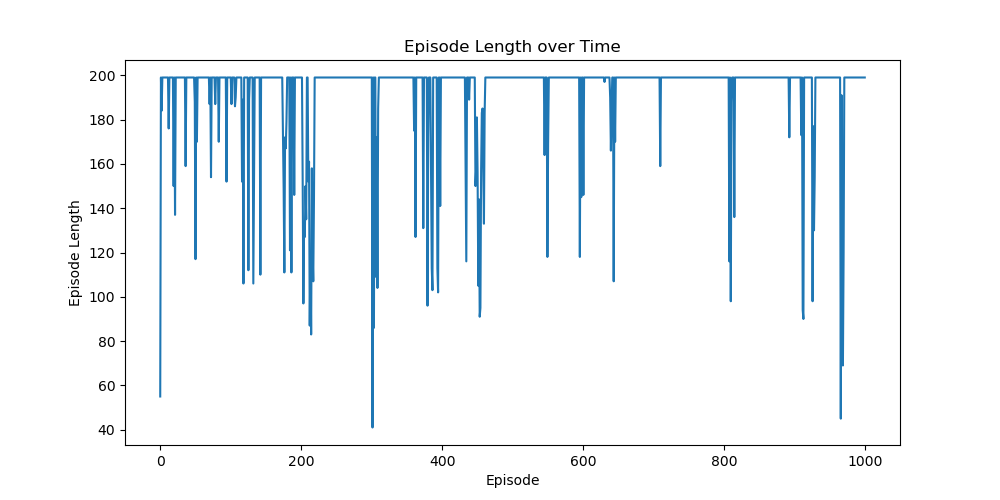
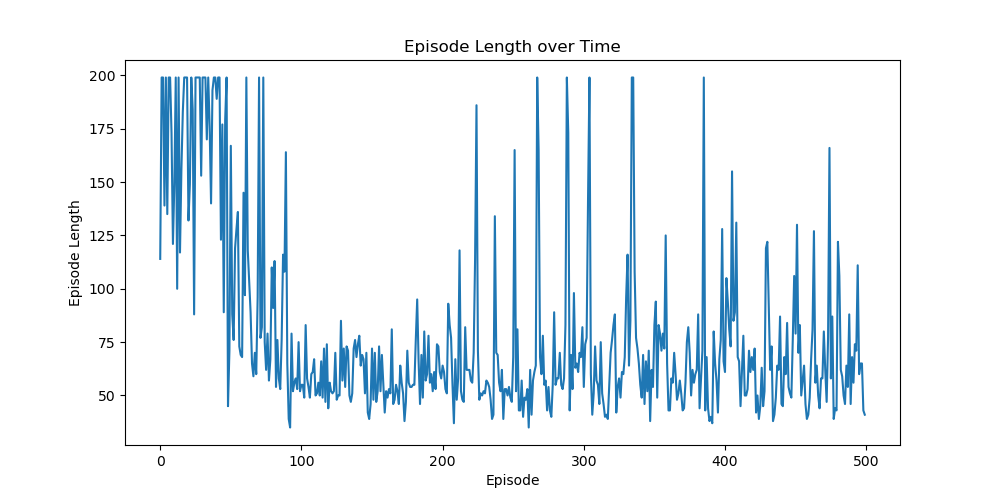
add ex07

diff --git a/ex07/scripts/sarsa_fa.py b/ex07/scripts/sarsa_fa.py
@@ -30,7 +30,9 @@ class Q(nn.Module):
 
         self.q_func = nn.Sequential(
             nn.Linear(state_dim, hidden_dim, bias=True),
+            nn.ReLU(),
             nn.Linear(hidden_dim, hidden_dim, bias=True),
+            nn.ReLU(),
             nn.Linear(hidden_dim, action_dim, bias=True)
         )
 
@@ -81,12 +83,9 @@ class SARSA:
                 stats.episode_lengths[e] = t
 
                 self._q_optimizer.zero_grad()
-                if d:
-                    loss = self._loss_function(torch.tensor(r).float(), r_hat)
-                else:
-                    na, nr_hat = self.get_action(ns, epsilon, False)
-                    loss = self._loss_function(torch.tensor(r + self._gamma*(nr_hat.item())).float(), r_hat)
-
+                na, nr_hat = self.get_action(ns, epsilon, False)
+                target = r + (1-d) * self._gamma * nr_hat.detach()
+                loss = self._loss_function(r_hat, target)
                 loss.backward()
                 self._q_optimizer.step()
 
@@ -132,7 +131,7 @@ if __name__ == "__main__":
     action_dim = env.action_space.n
     sarsa = SARSA(state_dim, action_dim, gamma=0.99)
 
-    episodes = 1000
+    episodes = 500
     time_steps = 200
     epsilon = 0.2
 
@@ -142,7 +141,7 @@ if __name__ == "__main__":
 
     for _ in range(5):
         s = env.reset()
-        for _ in range(200):
+        for _ in range(100):
             env.render()
             a = sarsa.get_action(s, epsilon)
             s, _, d, _ = env.step(a)
